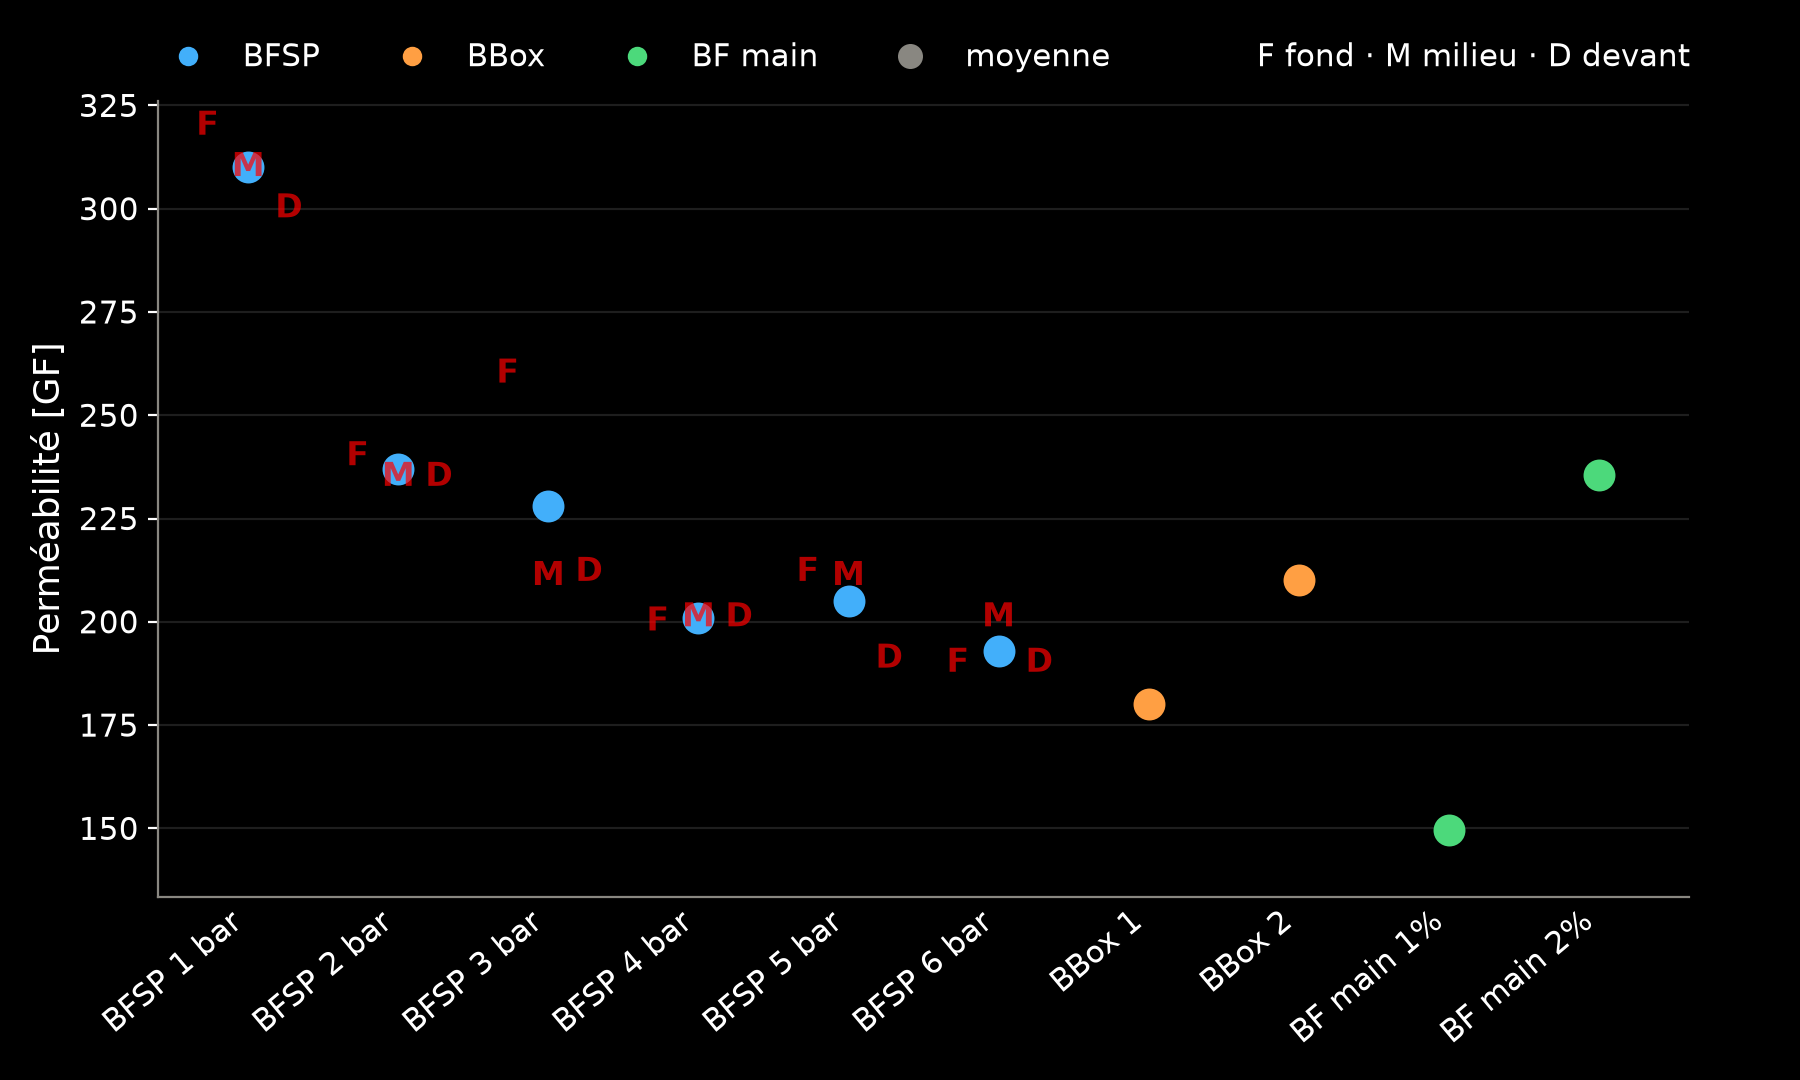
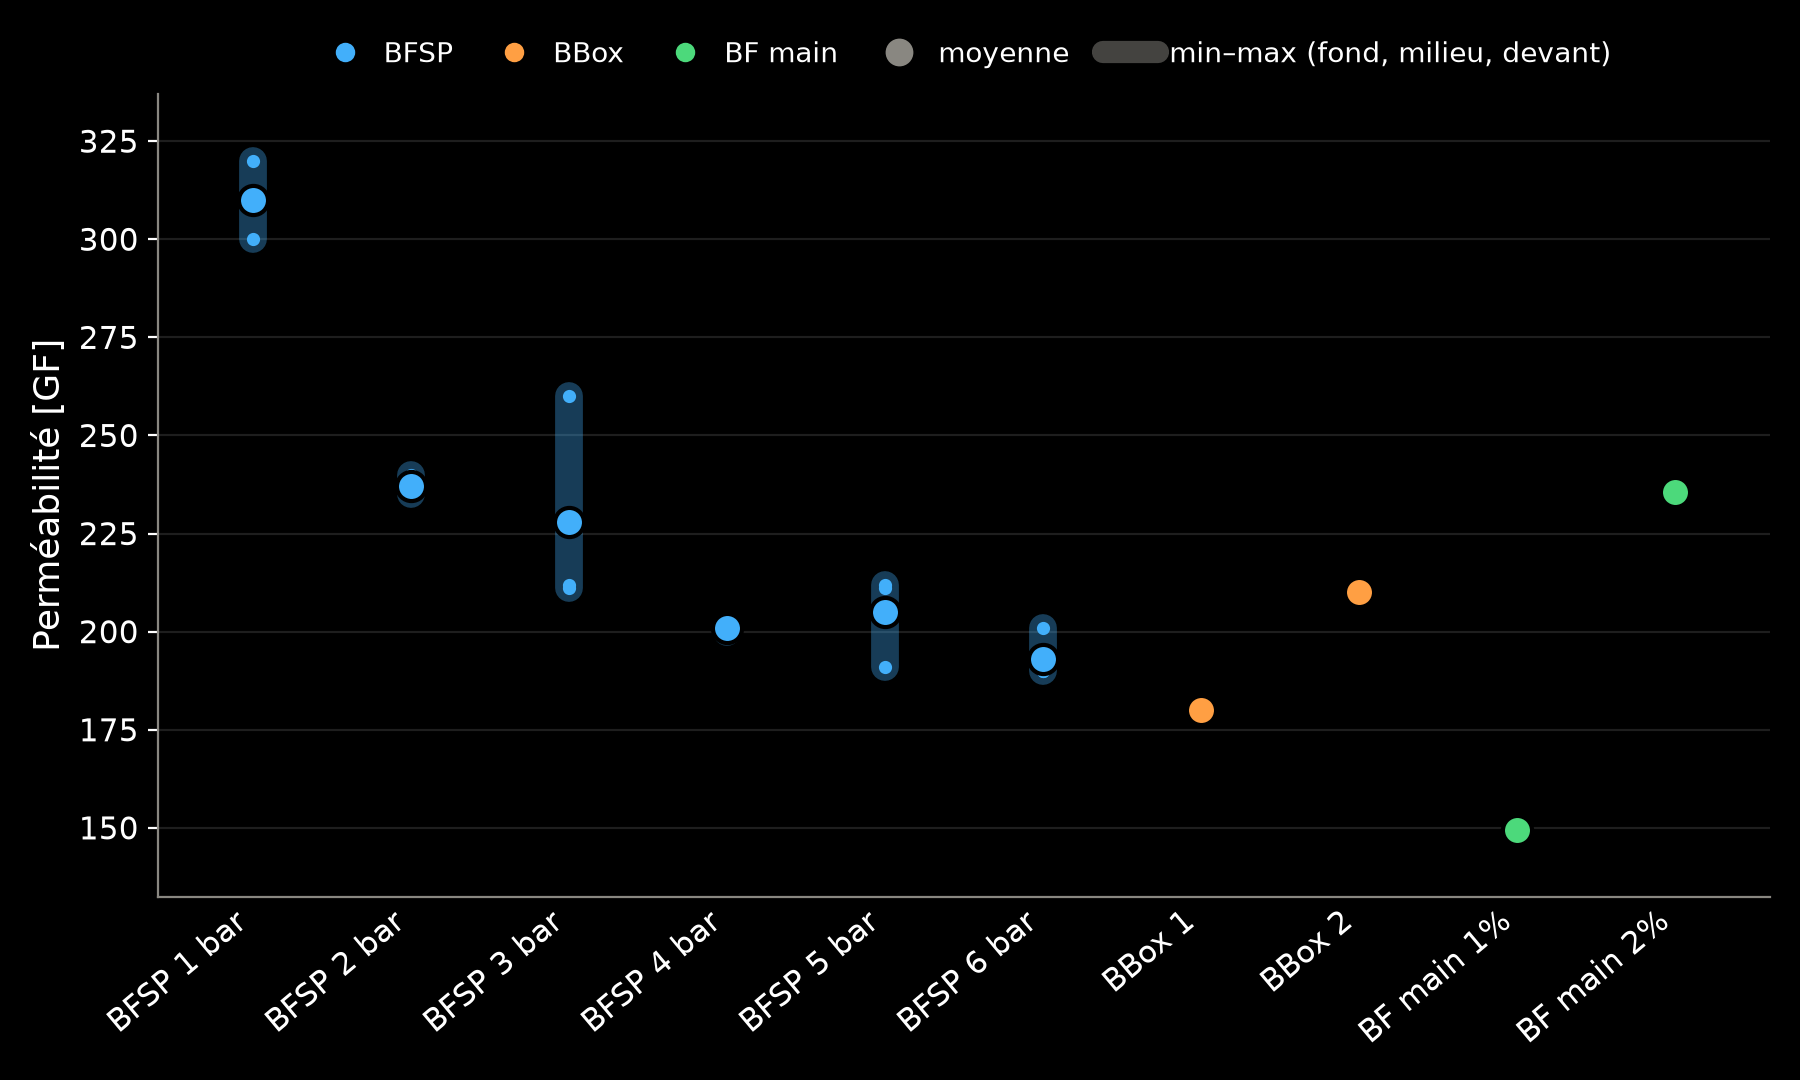
Range-bar markers, F_max, BFSP-only fragment, theoretical curves section

diff --git a/index.html b/index.html
@@ -77,7 +77,7 @@
         <li>Grégory CHOUEIRI</li>
         <li>Samuel BENOIT</li>
         <li>Sarah BENDAHHOU</li>
-        <li>Viincent DEIS</li>
+        <li>Vincent DEIS</li>
         <li>Yacine CHADLI</li>
       </ul>
       <p class="date">4 novembre 2026</p>
@@ -128,7 +128,7 @@
         </div>
         <div>
         <table data-id="tbl-3">
-          <thead><tr><th>Échantillon</th><th>\(\tau_{max}\) [N]</th></tr></thead>
+          <thead><tr><th>Échantillon</th><th>\(F_{max}\) [N]</th></tr></thead>
           <tbody>
             <tr><td>BFSP 1 bar</td><td>673</td></tr>
             <tr><td>BFSP 2 bar</td><td>738</td></tr>
@@ -173,16 +173,16 @@
         <table data-id="tbl-1">
           <thead><tr><th>Échantillon</th><th>Masse [g]</th></tr></thead>
           <tbody>
-            <tr><td>BFSP 1 bar</td><td>[...]</td></tr>
-            <tr><td>BFSP 2 bar</td><td>[...]</td></tr>
-            <tr><td>BFSP 3 bar</td><td>[...]</td></tr>
-            <tr><td>BFSP 4 bar</td><td>[...]</td></tr>
-            <tr><td>BFSP 5 bar</td><td>[...]</td></tr>
-            <tr class="sep"><td>BFSP 6 bar</td><td>[...]</td></tr>
-            <tr><td>BBox 1</td><td>[...]</td></tr>
-            <tr class="sep"><td>BBox 2</td><td>[...]</td></tr>
-            <tr><td>BF main 1%</td><td>[...]</td></tr>
-            <tr><td>BF main 2%</td><td>[...]</td></tr>
+            <tr><td>BFSP 1 bar</td><td>135</td></tr>
+            <tr><td>BFSP 2 bar</td><td>140,2</td></tr>
+            <tr><td>BFSP 3 bar</td><td>141,7</td></tr>
+            <tr><td>BFSP 4 bar</td><td>142,2</td></tr>
+            <tr><td>BFSP 5 bar</td><td>142,5</td></tr>
+            <tr class="sep"><td>BFSP 6 bar</td><td>143,3</td></tr>
+            <tr><td>BBox 1</td><td>148,5</td></tr>
+            <tr class="sep"><td>BBox 2</td><td>149</td></tr>
+            <tr><td>BF main 1%</td><td>153,3</td></tr>
+            <tr><td>BF main 2%</td><td>151,5</td></tr>
           </tbody>
         </table>
         </div>
@@ -205,18 +205,18 @@
         </div>
         <div>
         <table data-id="tbl-3">
-          <thead><tr><th>[...]</th><th>\(\tau_{max}\) [N]</th></tr></thead>
+          <thead><tr><th>Échantillon</th><th>\(F_{max}\) [N]</th></tr></thead>
           <tbody>
-            <tr><td>BFSP 1 bar</td><td>[...]</td></tr>
-            <tr><td>BFSP 2 bar</td><td>[...]</td></tr>
-            <tr><td>BFSP 3 bar</td><td>[...]</td></tr>
-            <tr><td>BFSP 4 bar</td><td>[...]</td></tr>
-            <tr><td>BFSP 5 bar</td><td>[...]</td></tr>
-            <tr class="sep"><td>BFSP 6 bar</td><td>[...]</td></tr>
-            <tr><td>BBox 1</td><td>[...]</td></tr>
-            <tr class="sep"><td>BBox 2</td><td>[...]</td></tr>
-            <tr><td>BF main 1%</td><td>[...]</td></tr>
-            <tr><td>BF main 2%</td><td>[...]</td></tr>
+            <tr><td>BFSP 1 bar</td><td>673</td></tr>
+            <tr><td>BFSP 2 bar</td><td>738</td></tr>
+            <tr><td>BFSP 3 bar</td><td>988</td></tr>
+            <tr><td>BFSP 4 bar</td><td>813</td></tr>
+            <tr><td>BFSP 5 bar</td><td>851</td></tr>
+            <tr class="sep"><td>BFSP 6 bar</td><td>1 161</td></tr>
+            <tr><td>BBox 1</td><td>411</td></tr>
+            <tr class="sep"><td>BBox 2</td><td>431</td></tr>
+            <tr><td>BF main 1%</td><td>1 834</td></tr>
+            <tr><td>BF main 2%</td><td>5 226</td></tr>
           </tbody>
         </table>
         </div>
@@ -250,16 +250,16 @@
         <table data-id="tbl-1">
           <thead><tr><th>Échantillon</th><th>Masse [g]</th></tr></thead>
           <tbody>
-            <tr><td>BFSP 1 bar</td><td>[...]</td></tr>
-            <tr><td>BFSP 2 bar</td><td>[...]</td></tr>
-            <tr><td>BFSP 3 bar</td><td>[...]</td></tr>
-            <tr><td>BFSP 4 bar</td><td>[...]</td></tr>
-            <tr><td>BFSP 5 bar</td><td>[...]</td></tr>
-            <tr class="sep"><td>BFSP 6 bar</td><td>[...]</td></tr>
-            <tr><td>BBox 1</td><td>[...]</td></tr>
-            <tr class="sep"><td>BBox 2</td><td>[...]</td></tr>
-            <tr><td>BF main 1%</td><td>[...]</td></tr>
-            <tr><td>BF main 2%</td><td>[...]</td></tr>
+            <tr><td>BFSP 1 bar</td><td>135</td></tr>
+            <tr><td>BFSP 2 bar</td><td>140,2</td></tr>
+            <tr><td>BFSP 3 bar</td><td>141,7</td></tr>
+            <tr><td>BFSP 4 bar</td><td>142,2</td></tr>
+            <tr><td>BFSP 5 bar</td><td>142,5</td></tr>
+            <tr class="sep"><td>BFSP 6 bar</td><td>143,3</td></tr>
+            <tr><td>BBox 1</td><td>148,5</td></tr>
+            <tr class="sep"><td>BBox 2</td><td>149</td></tr>
+            <tr><td>BF main 1%</td><td>153,3</td></tr>
+            <tr><td>BF main 2%</td><td>151,5</td></tr>
           </tbody>
         </table>
         </div>
@@ -282,18 +282,18 @@
         </div>
         <div>
         <table data-id="tbl-3">
-          <thead><tr><th>[...]</th><th>\(\tau_{max}\) [N]</th></tr></thead>
+          <thead><tr><th>Échantillon</th><th>\(F_{max}\) [N]</th></tr></thead>
           <tbody>
-            <tr><td>BFSP 1 bar</td><td>[...]</td></tr>
-            <tr><td>BFSP 2 bar</td><td>[...]</td></tr>
-            <tr><td>BFSP 3 bar</td><td>[...]</td></tr>
-            <tr><td>BFSP 4 bar</td><td>[...]</td></tr>
-            <tr><td>BFSP 5 bar</td><td>[...]</td></tr>
-            <tr class="sep"><td>BFSP 6 bar</td><td>[...]</td></tr>
-            <tr><td>BBox 1</td><td>[...]</td></tr>
-            <tr class="sep"><td>BBox 2</td><td>[...]</td></tr>
-            <tr><td>BF main 1%</td><td>[...]</td></tr>
-            <tr><td>BF main 2%</td><td>[...]</td></tr>
+            <tr><td>BFSP 1 bar</td><td>673</td></tr>
+            <tr><td>BFSP 2 bar</td><td>738</td></tr>
+            <tr><td>BFSP 3 bar</td><td>988</td></tr>
+            <tr><td>BFSP 4 bar</td><td>813</td></tr>
+            <tr><td>BFSP 5 bar</td><td>851</td></tr>
+            <tr class="sep"><td>BFSP 6 bar</td><td>1 161</td></tr>
+            <tr><td>BBox 1</td><td>411</td></tr>
+            <tr class="sep"><td>BBox 2</td><td>431</td></tr>
+            <tr><td>BF main 1%</td><td>1 834</td></tr>
+            <tr><td>BF main 2%</td><td>5 226</td></tr>
           </tbody>
         </table>
         </div>
@@ -304,9 +304,11 @@
     <!-- Tableau 3: scatterplot (scripts/plot_scatter.py), notes on the slide below -->
     <section>
       <section class="centered">
-        <figure>
-          <img src="figures/cisaillement_dark.png" alt="Nuage de points de la résistance au cisaillement en newtons par échantillon : BFSP de 673 à 1161, BBox 411 et 431, BF main 1834 et 5226.">
-        </figure>
+        <!-- first image fades out when the BFSP-only plot (own y axis) fades in -->
+        <div class="r-stack">
+          <img class="fragment fade-out" data-fragment-index="0" src="figures/cisaillement_dark.png" alt="Nuage de points de la force maximale en newtons par échantillon : BFSP de 673 à 1161, BBox 411 et 431, BF main 1834 et 5226.">
+          <img class="fragment" data-fragment-index="0" src="figures/cisaillement_bfsp_dark.png" alt="Même nuage de points, limité à BFSP 1 à 6 bar, avec un axe vertical plus resserré.">
+        </div>
         <aside class="notes"><p>[...]</p></aside>
       </section>
       <section>
@@ -317,6 +319,25 @@
         </ul>
         <aside class="notes"><p>[...]</p></aside>
       </section>
+    </section>
+    <section>
+      <img src="figures/IMG_6591.png" alt="Tableau manuscrit comparant BF main, BFSP et BB selon le coût, Rm, l'écologie, la perméabilité et la densité.">
+    </section>
+
+    <!-- Courbes théoriques: divider -->
+    <section class="centered">
+      <h2>Courbes théoriques</h2>
+    </section>
+
+    <!-- Idealised force-displacement curves for pressures 1-6 bar (scripts/plot_theory.py) -->
+    <section class="centered">
+      <figure>
+        <img src="figures/courbes_theoriques_dark.png" alt="Courbes force-déplacement idéalisées pour des pressions de 1 à 6 bar : chaque courbe monte jusqu'à un maximum puis redescend, le maximum augmente avec la pression en se saturant.">
+      </figure>
+      <aside class="notes">
+        <p class="fact">Courbes qualitatives, pas des mesures : modèle simplifié (montée, pic F_max, adoucissement jusqu'à un palier). F_max augmente avec la pression et sature ; même forme de courbe pour toutes les pressions.</p>
+        <p>[...]</p>
+      </aside>
     </section>
 
   </div>

diff --git a/scripts/plot_scatter.py b/scripts/plot_scatter.py
@@ -1,9 +1,13 @@
 """Scatterplots for Tableau 1-3 (masse, permeabilite, cisaillement), light + dark.
 
-One dot per sample (the mean), read from the first tbl-1 / tbl-2 / tbl-3 table in index.html
-so the slides and the plots share one source. Colour = method (BFSP, BBox, BF main).
-BFSP raw (non averaged) values from data/bfsp_raw.csv are added as small triangles.
-Writes figures/{masse,permeabilite,cisaillement}_{light,dark}.png.
+Big dot = mean per sample, read from the first tbl-1 / tbl-2 / tbl-3 table in index.html.
+Where data/raw.csv has the three measurements (fond, milieu, devant) for a sample, a
+translucent bar spans min-max and three tiny dots mark the individual values.
+Colour = method (BFSP, BBox, BF main).
+
+Writes figures/{masse,permeabilite,cisaillement}_{light,dark}.png and
+figures/cisaillement_bfsp_{light,dark}.png (BFSP only, so the y axis is not stretched
+by the other methods).
 """
 import csv
 import re
@@ -17,11 +21,13 @@ from matplotlib.lines import Line2D
 root = Path(__file__).resolve().parent.parent
 html = (root / "index.html").read_text()
 
-QUANTITIES = {
-    "masse": ("tbl-1", "Masse [g]"),
-    "permeabilite": ("tbl-2", "Perméabilité [GF]"),
-    "cisaillement": ("tbl-3", r"$\tau_{max}$ [N]"),
-}
+# (output name, table id, y label, methods kept)
+PLOTS = [
+    ("masse", "tbl-1", "Masse [g]", None),
+    ("permeabilite", "tbl-2", "Perméabilité [GF]", None),
+    ("cisaillement", "tbl-3", r"$F_{max}$ [N]", None),
+    ("cisaillement_bfsp", "tbl-3", r"$F_{max}$ [N]", {"BFSP"}),
+]
 COLORS = {"BFSP": "#42affa", "BBox": "#ff9f43", "BF main": "#4cd97b"}
 THEMES = {
     "dark": dict(bg="#000000", fg="#ffffff", muted="#898781", grid=(1, 1, 1, 0.12)),
@@ -41,9 +47,9 @@ def read_table(table_id):
 
 
 raw = {}
-with open(root / "data" / "bfsp_raw.csv") as f:
+with open(root / "data" / "raw.csv") as f:
     for r in csv.DictReader(f):
-        raw.setdefault(r["quantity"], {})[int(r["pression"])] = [
+        raw.setdefault(r["quantity"], {})[r["sample"]] = [
             float(r[p]) for p in ("fond", "milieu", "devant")]
 
 
@@ -51,19 +57,20 @@ def group_of(name):
     return next(g for g in ("BFSP", "BBox", "BF main") if name.startswith(g))
 
 
-for q, (table_id, label) in QUANTITIES.items():
-    pts = read_table(table_id)
+for out_name, table_id, label, keep in PLOTS:
+    q = out_name.split("_")[0]
+    pts = [p for p in read_table(table_id) if keep is None or group_of(p[0]) in keep]
     for theme, c in THEMES.items():
         fig, ax = plt.subplots(figsize=(9, 5.4), dpi=200, facecolor=c["bg"])
         ax.set_facecolor(c["bg"])
-        for x, (name, v) in enumerate(pts):
+        for x, (name, mean) in enumerate(pts):
             col = COLORS[group_of(name)]
-            ax.scatter(x, v, s=110, color=col, zorder=3)
-            if name.startswith("BFSP"):
-                vals = raw[q][int(name.split()[1])]
-                for dx, letter, v in zip((-0.27, 0, 0.27), "FMD", vals):
-                    ax.text(x + dx, v, letter, color="red", alpha=0.7, fontsize=12,
-                            fontweight="bold", ha="center", va="center", zorder=4)
+            vals = raw.get(q, {}).get(name)
+            if vals:
+                ax.vlines(x, min(vals), max(vals), color=col, alpha=0.35, linewidth=10,
+                          capstyle="round", zorder=2)
+                ax.scatter([x] * 3, vals, s=14, color=col, zorder=4)
+            ax.scatter(x, mean, s=110, color=col, edgecolor=c["bg"], linewidth=1.5, zorder=5)
         ax.set_xticks(range(len(pts)), [n for n, _ in pts], rotation=40, ha="right",
                       color=c["fg"], fontsize=11)
         ax.tick_params(axis="y", colors=c["fg"], labelsize=11)
@@ -78,13 +85,15 @@ for q, (table_id, label) in QUANTITIES.items():
         ax.set_xlim(-0.6, len(pts) - 0.4)
         ax.margins(y=0.1)
         handles = [Line2D([], [], marker="o", linestyle="", color=col, label=g)
-                   for g, col in COLORS.items()]
-        handles += [Line2D([], [], marker="o", linestyle="", color=c["muted"], markersize=8,
+                   for g, col in COLORS.items() if keep is None or g in keep]
+        handles += [Line2D([], [], marker="o", linestyle="", color=c["muted"], markersize=9,
                            label="moyenne"),
-                    Line2D([], [], linestyle="", label="F fond · M milieu · D devant")]
-        ax.legend(handles=handles, loc="lower center", bbox_to_anchor=(0.5, 1.0), ncol=5,
-                  frameon=False, fontsize=11, labelcolor=c["fg"])
+                    Line2D([], [], color=c["muted"], alpha=0.5, linewidth=8,
+                           solid_capstyle="round", label="min–max (fond, milieu, devant)")]
+        ax.legend(handles=handles, loc="lower center", bbox_to_anchor=(0.5, 1.0),
+                  ncol=len(handles), frameon=False, fontsize=10, labelcolor=c["fg"],
+                  columnspacing=1.2, handletextpad=0.4)
         fig.tight_layout()
-        fig.savefig(root / "figures" / f"{q}_{theme}.png", facecolor=c["bg"])
+        fig.savefig(root / "figures" / f"{out_name}_{theme}.png", facecolor=c["bg"])
         plt.close(fig)
-    print(q, pts)
+    print(out_name, pts)

diff --git a/scripts/plot_theory.py b/scripts/plot_theory.py
@@ -1,0 +1,62 @@
+"""Rough, idealised force-displacement curves of the shear test for several pressures.
+
+Not measured data: a qualitative model. Each curve rises, peaks at F_max(p), then softens
+to a residual plateau. F_max grows with pressure and saturates (denser sand, then
+diminishing returns); the curve shape is the same for every pressure.
+Writes figures/courbes_theoriques_{light,dark}.png.
+"""
+from pathlib import Path
+
+import matplotlib
+matplotlib.use("Agg")
+import matplotlib.pyplot as plt
+import numpy as np
+from matplotlib.colors import to_rgb
+
+root = Path(__file__).resolve().parent.parent
+PRESSURES = [1, 2, 3, 4, 5, 6]
+THEMES = {
+    "dark": dict(bg="#000000", fg="#ffffff", muted="#898781", low="#1d4568"),
+    "light": dict(bg="#ffffff", fg="#111111", muted="#6b6b6b", low="#c3dff5"),
+}
+HIGH = "#42affa"
+
+
+X_PEAK = 1.0
+RESIDUAL = 0.45
+
+
+def f_max(p):
+    return 1 - np.exp(-p / 4)
+
+
+def curve(x, p):
+    u = x / X_PEAK
+    return f_max(p) * ((1 - RESIDUAL) * u * np.exp(1 - u) + RESIDUAL * (1 - np.exp(-3 * u)))
+
+
+x = np.linspace(0, 4, 400)
+for theme, c in THEMES.items():
+    lo, hi = np.array(to_rgb(c["low"])), np.array(to_rgb(HIGH))
+    fig, ax = plt.subplots(figsize=(9, 5.4), dpi=200, facecolor=c["bg"])
+    ax.set_facecolor(c["bg"])
+    for p in PRESSURES:
+        col = lo + (hi - lo) * (p - 1) / (len(PRESSURES) - 1)
+        y = curve(x, p)
+        ax.plot(x, y, color=col, linewidth=2.6)
+        ax.text(1.3, float(curve(1.3, p)) + 0.025, f"{p} bar", color=col, ha="center", va="bottom",
+                fontsize=11)
+    ax.set_xlim(0, 4)
+    ax.set_ylim(0, 0.95)
+    ax.set_xticks([])
+    ax.set_yticks([])
+    ax.set_xlabel("Déplacement (u.a.)", color=c["fg"], fontsize=13)
+    ax.set_ylabel(r"Force $F$ (u.a.)", color=c["fg"], fontsize=13)
+    for side in ("top", "right"):
+        ax.spines[side].set_visible(False)
+    for side in ("left", "bottom"):
+        ax.spines[side].set_color(c["muted"])
+    fig.tight_layout()
+    fig.savefig(root / "figures" / f"courbes_theoriques_{theme}.png", facecolor=c["bg"])
+    plt.close(fig)
+print("ok")
